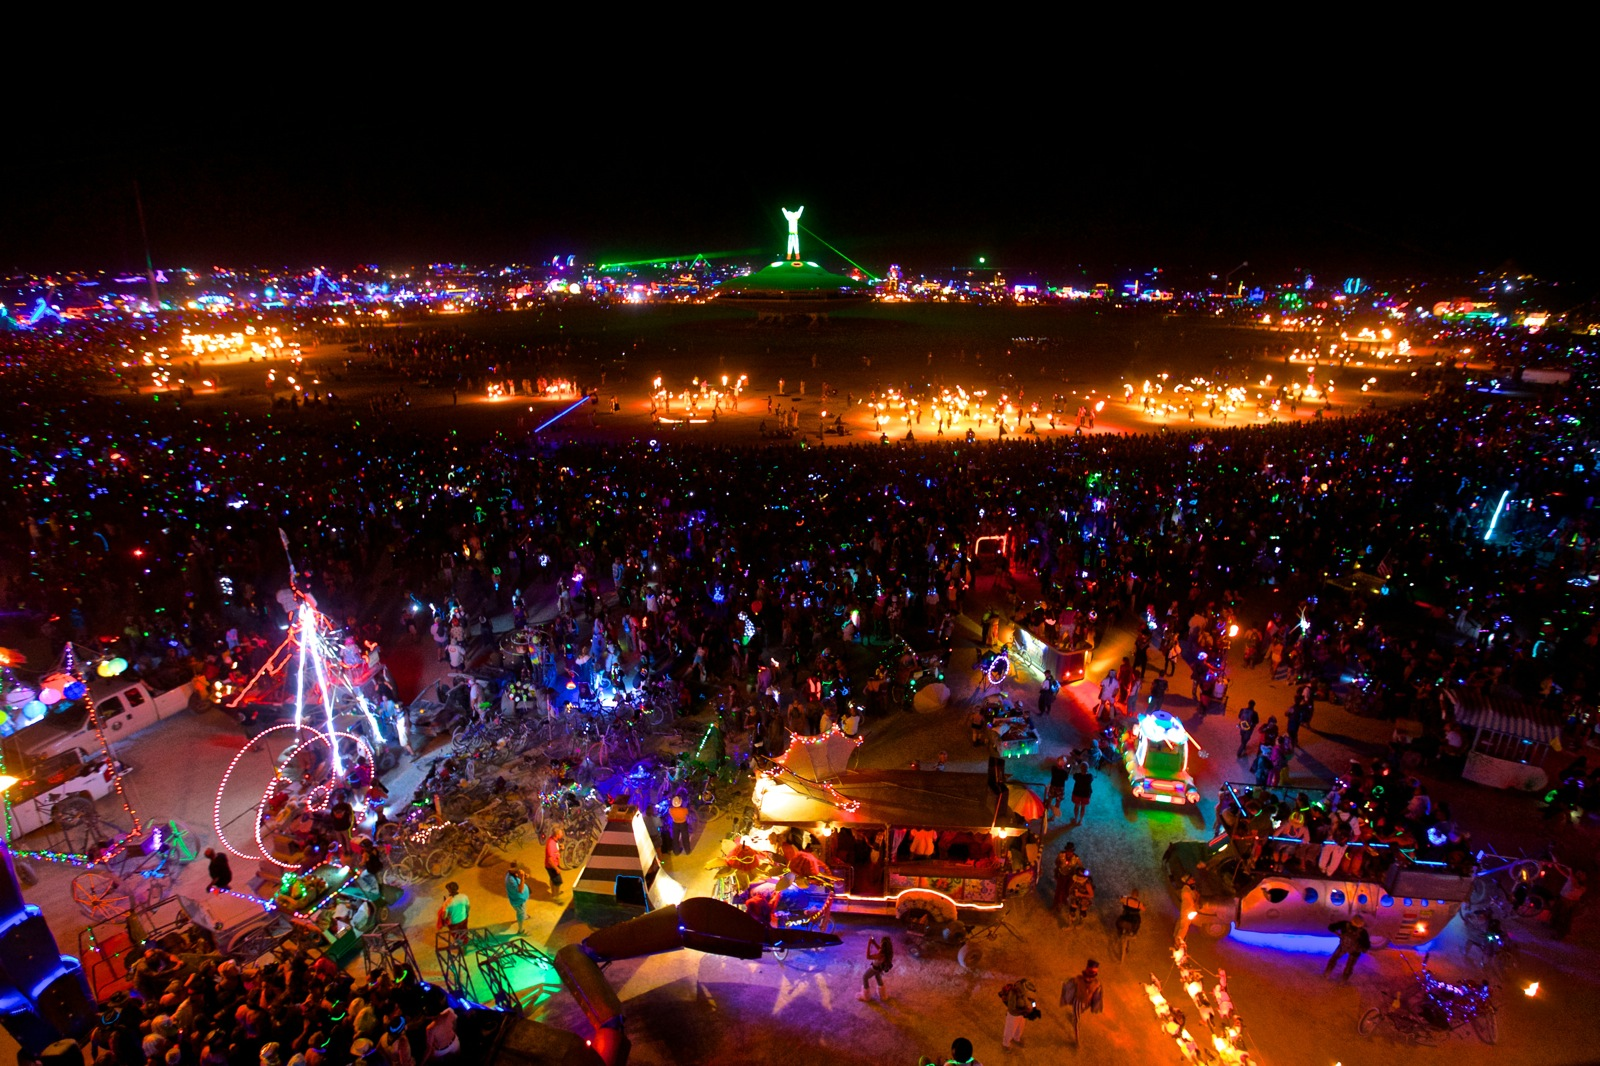
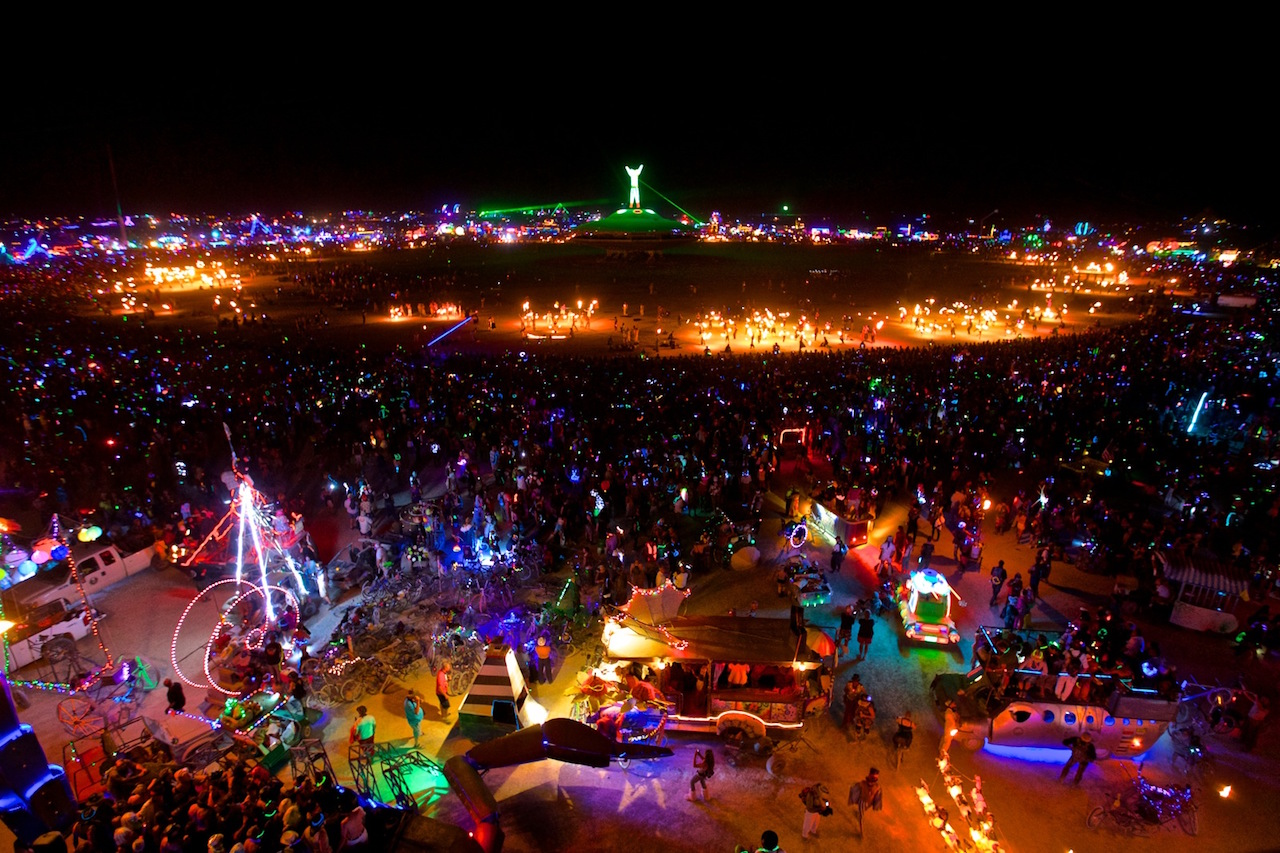
updated cover photo"

diff --git a/app/assets/stylesheets/custom.css.scss b/app/assets/stylesheets/custom.css.scss
@@ -34,7 +34,8 @@ textarea {
 }
 
 .center {
-	padding: 10%;
+	padding-top: 20px;
+	padding-bottom: 20px;
 	color: white;
 	text-align: center;
 	
@@ -44,6 +45,10 @@ textarea {
 	h1 {
 		margin-bottom: 20px;
 	}
+}
+
+.pad {
+	margin-top: 40%;
 }
 
 /* typography */
@@ -267,9 +272,9 @@ fieldset {
 }
 
 .lipstick-icon {
-	width: 10%;
-	height: 10%;
-	position: 20px 20px;
+	width: 25%;
+	height: 25%;
+	/*position: 10px 10px;*/
 }
 
 /* Users index */
@@ -393,10 +398,11 @@ div.user_intention {
 
 .welcome {
 
-	background-image: image-url("bm2013.jpeg");
+	background-image: image-url("FC_2015.jpg");
 	background-repeat: no-repeat;
 	background-position: center center;
 	background-attachment: fixed;
 	background-size: cover;
+	min-height: 500px;
 
 }
